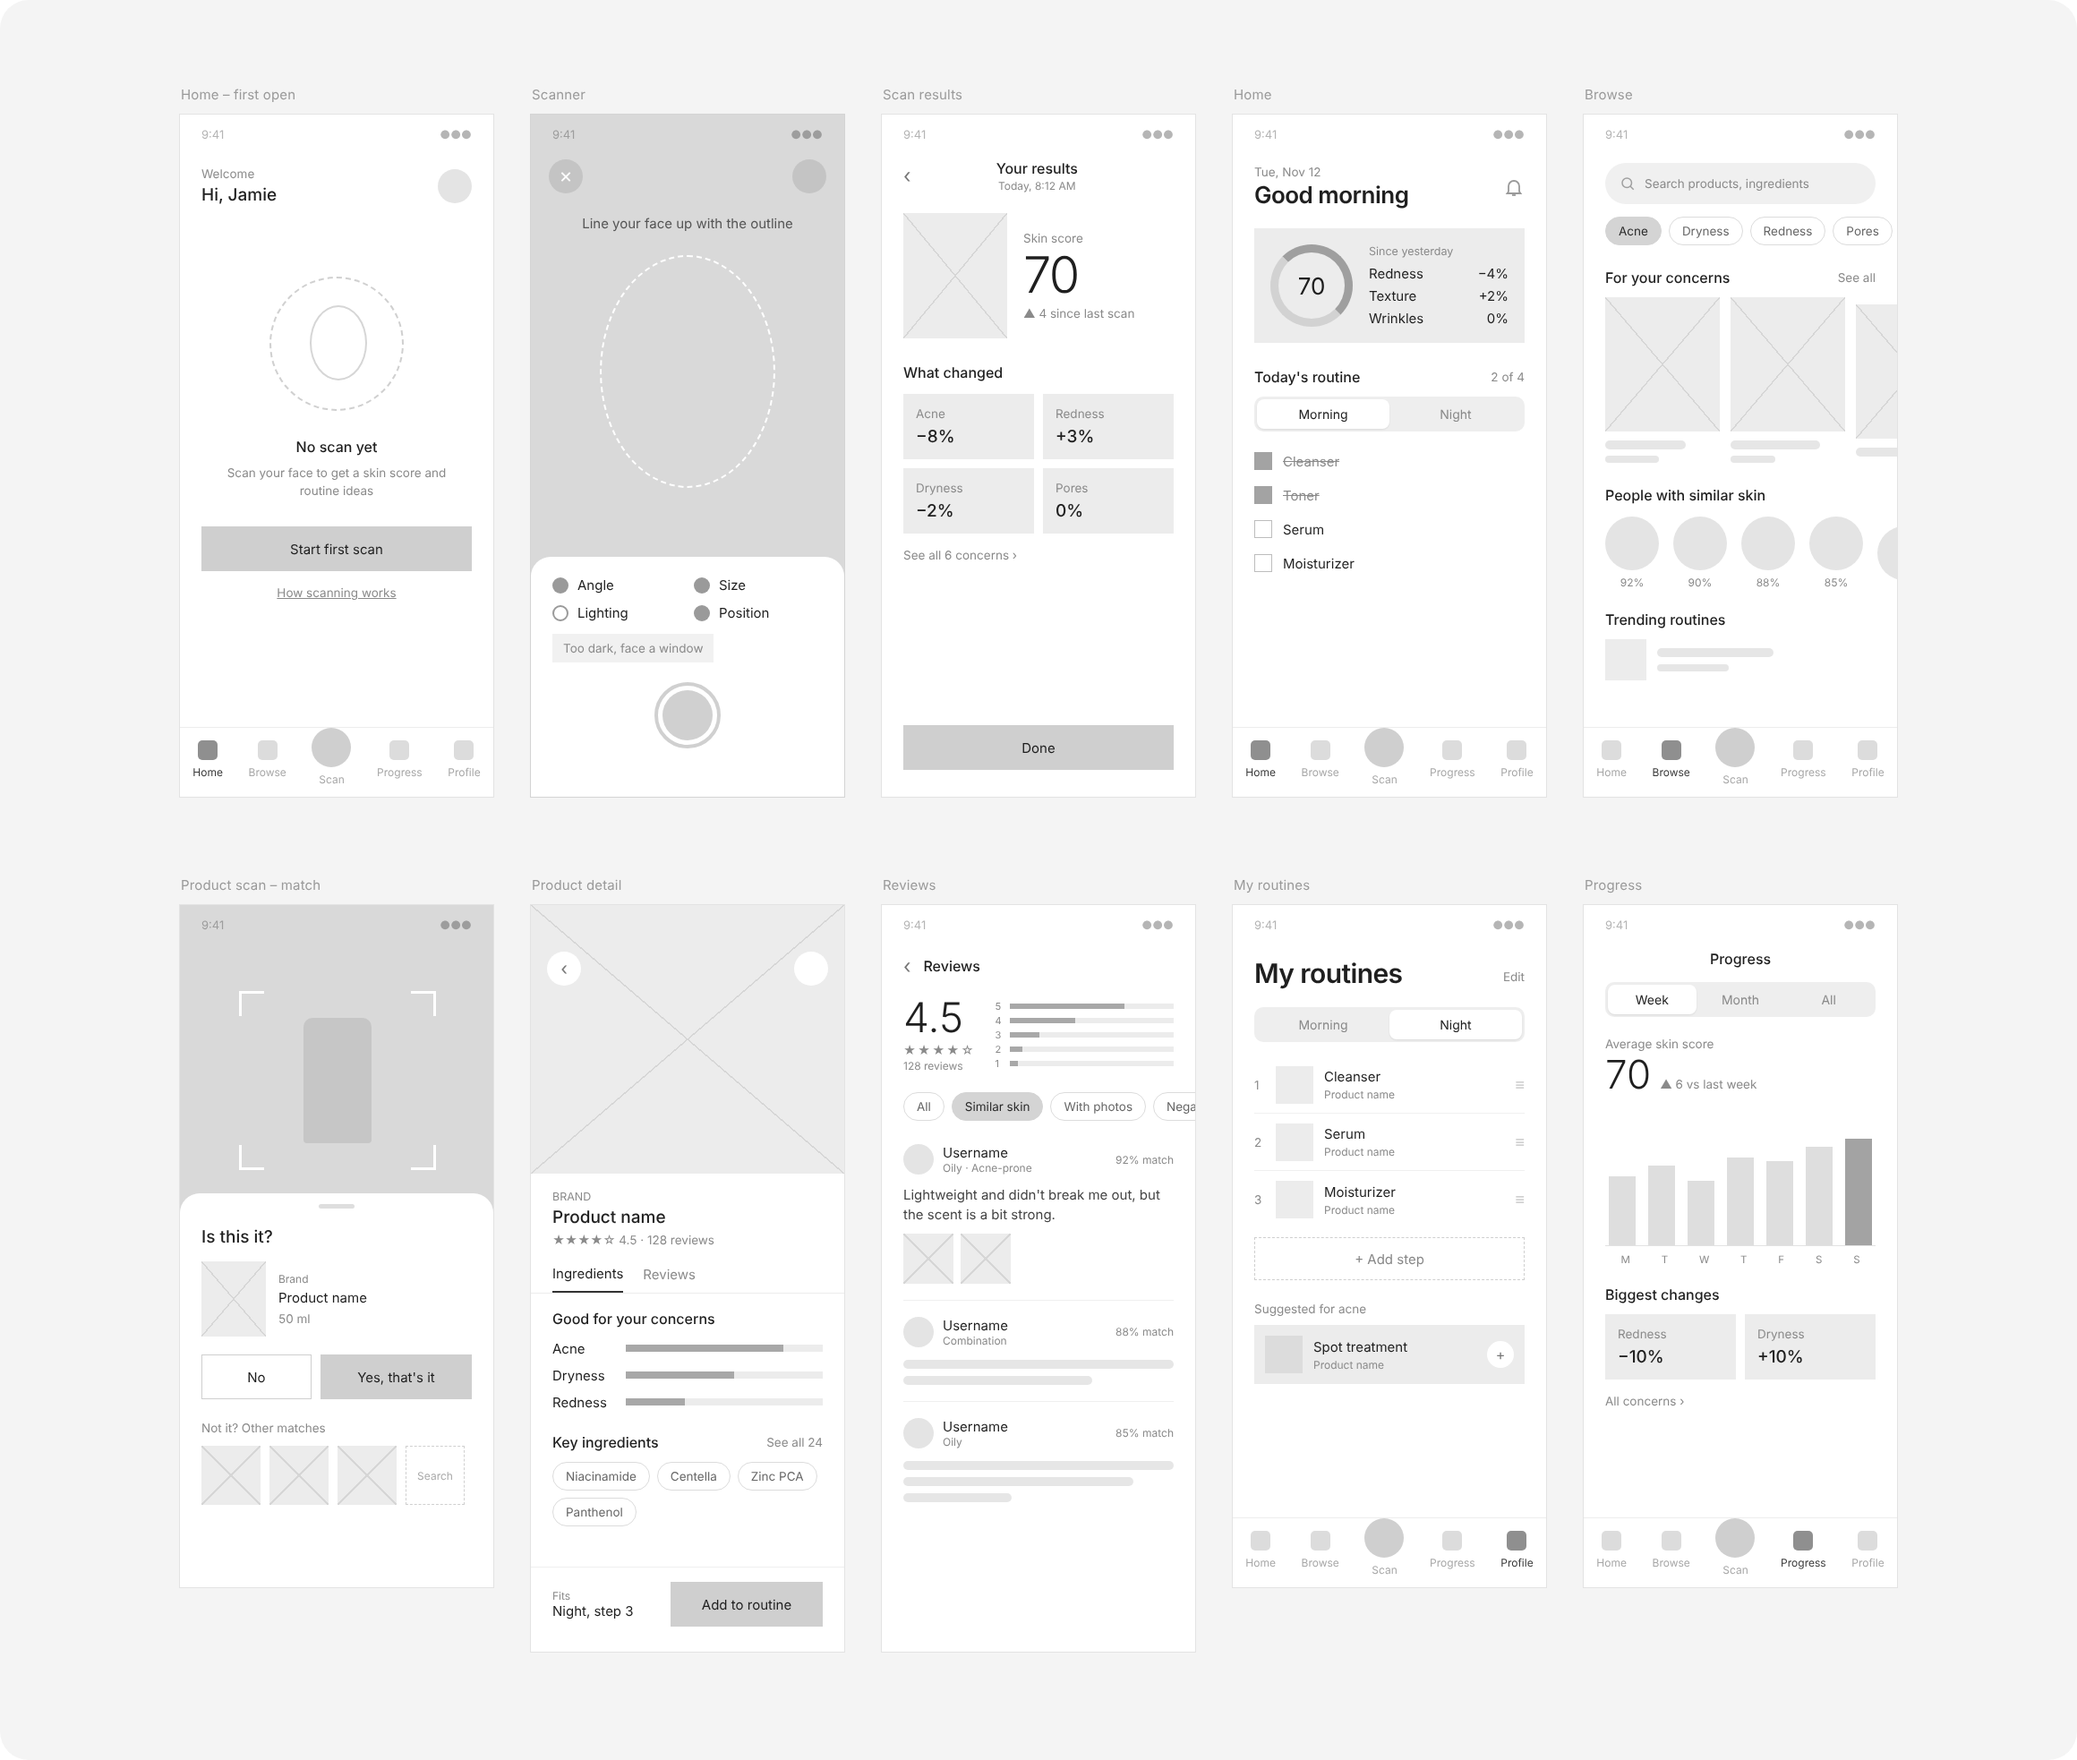
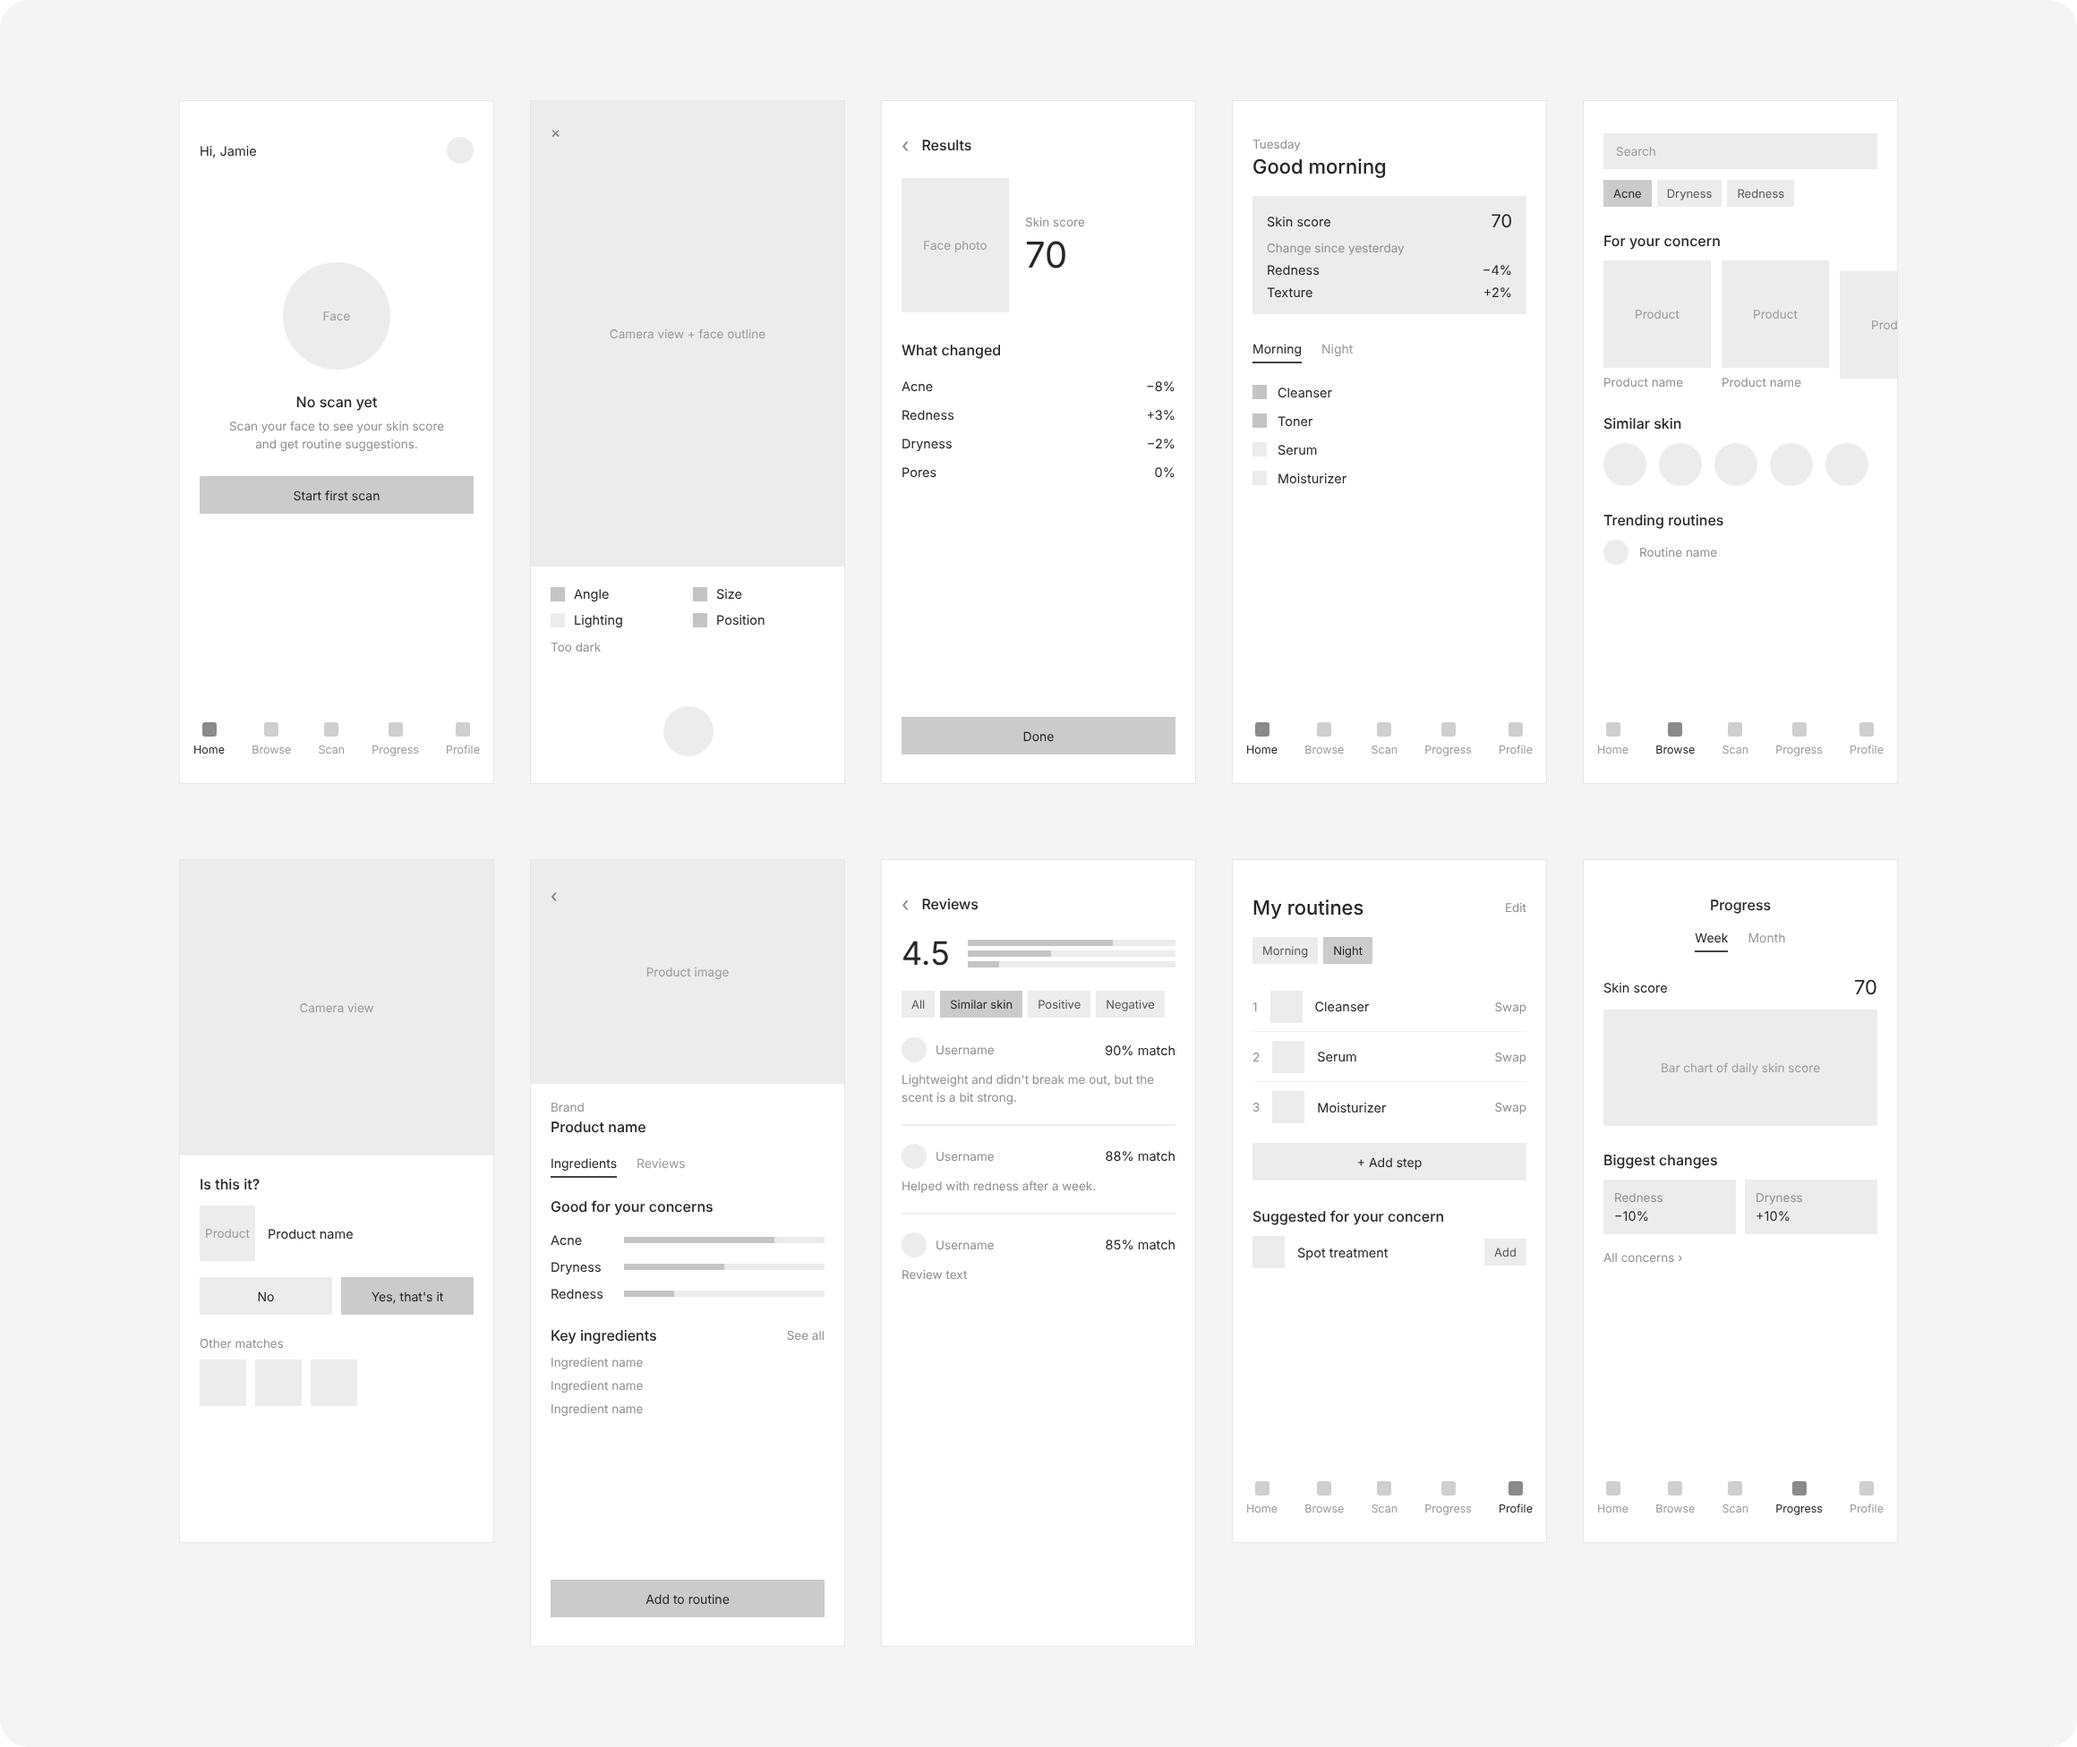
Skyn: bring wireframes back to low fidelity, keep varied layouts (#57)
Claude-Session: https://claude.ai/code/session_01PJkMoucUcNW3VhGUPcjNZp

diff --git a/skyn-site/index.html b/skyn-site/index.html
@@ -345,8 +345,8 @@
                 <p class="body">I laid out the main flows in mid-fidelity wireframes: scanning, product lookup, discovery, routines and progress. Keeping them grayscale kept the focus on structure, hierarchy and how each screen leads to the next.</p>
               </div>
             </div>
-            <img class="figure" src="images/wireframes.png?v=2" width="1160" height="983" loading="lazy"
-              alt="Ten grayscale mid-fidelity wireframes, each laid out for its job: an empty first-open home, a full-screen camera scanner with a checklist sheet, scan results, home with a score ring and routine, browse led by a search bar, a product scan match sheet, product detail with a full-bleed image, reviews with a rating breakdown, my routines with reorderable steps, and weekly progress with a bar chart">
+            <img class="figure" src="images/wireframes.png?v=3" width="1160" height="976" loading="lazy"
+              alt="Ten grayscale low-fidelity wireframes, each laid out for its job: home before first scan, full-screen scanner, scan results, home, browse led by a search bar, product scan result over the camera, product detail under a full-width image, reviews, my routines and progress">
           </div>
 
           <div class="subsection subsection--wide-gap">
